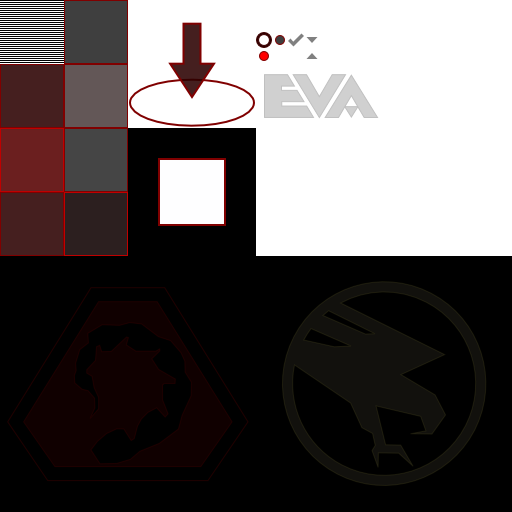
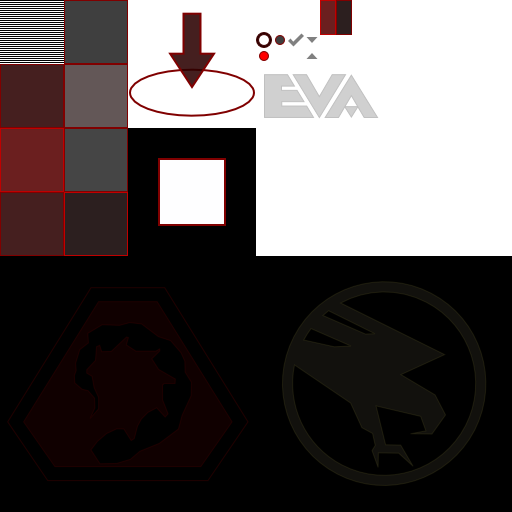
Loadscreen progress bar

Changed region(s): [[0.25, 0.0938, 0.5, 0.25], [0.625, 0.0, 0.6875, 0.0938], [0.3438, 0.0, 0.4062, 0.0625]]

diff --git a/OpenRA.Mods.Cnc/CncLoadScreen.cs b/OpenRA.Mods.Cnc/CncLoadScreen.cs
@@ -20,10 +20,12 @@ namespace OpenRA.Mods.Cnc
 	public class CncLoadScreen : ILoadScreen
 	{
 		Dictionary<string,string> Info;
-		Stopwatch lastLoadScreen = new Stopwatch();
+		Stopwatch loadTimer = new Stopwatch();
 		Sprite[] ss;
-		float2 nodPos, gdiPos, evaPos;
-		Sprite nodLogo, gdiLogo, evaLogo;
+		string text;
+		int loadTick;
+		float2 nodPos, gdiPos, evaPos, textPos;
+		Sprite nodLogo, gdiLogo, evaLogo, brightBlock, dimBlock;
 		Rectangle Bounds;
 		Renderer r;
 		NullInputHandler nih = new NullInputHandler();
@@ -55,27 +57,39 @@ namespace OpenRA.Mods.Cnc
 			nodPos = new float2(Renderer.Resolution.Width/3 - 256, Renderer.Resolution.Height/2 - 128);
 			gdiPos = new float2(Renderer.Resolution.Width*2/3, Renderer.Resolution.Height/2 - 128);
 			evaPos = new float2(Renderer.Resolution.Width-43-128, 43);
+			
+			brightBlock = new Sprite(s, new Rectangle(320,0,16,35), TextureChannel.Alpha);
+			dimBlock = new Sprite(s, new Rectangle(336,0,16,35), TextureChannel.Alpha);
 		}
 		
 		public void Display()
 		{
-			if (r == null)
+			if (r == null || loadTimer.ElapsedTime() < 0.25)
 				return;
+			loadTimer.Reset();
 			
-			// Update text at most every 0.5 seconds
-			if (lastLoadScreen.ElapsedTime() < 0.5)
-				return;
-			var font = r.Fonts["BigBold"];
-			var text = "Connecting to EVA...";
-			lastLoadScreen.Reset();
-			var textSize = font.Measure(text);
-			
+			loadTick = ++loadTick % 8;
 			r.BeginFrame(float2.Zero);
 			r.RgbaSpriteRenderer.DrawSprite(gdiLogo, gdiPos);
 			r.RgbaSpriteRenderer.DrawSprite(nodLogo, nodPos);
 			r.RgbaSpriteRenderer.DrawSprite(evaLogo, evaPos);
 			DrawBorder();
-			font.DrawText(text, new float2((Renderer.Resolution.Width - textSize.X) / 2, (Renderer.Resolution.Height - textSize.Y) / 2), Color.White);
+			
+			var barY = Renderer.Resolution.Height-78;
+			text = "Loading";
+			var textSize = r.Fonts["BigBold"].Measure(text);
+			textPos = new float2((Renderer.Resolution.Width - textSize.X) / 2, barY);
+			r.Fonts["BigBold"].DrawText(text, textPos, Color.DarkRed);
+
+			for (var i = 0; i <= 8; i++)
+			{
+				var block = loadTick == i ? brightBlock : dimBlock;
+				r.RgbaSpriteRenderer.DrawSprite(block,
+					new float2(Renderer.Resolution.Width/2 - 114 - i*32, barY));
+				r.RgbaSpriteRenderer.DrawSprite(block,
+					new float2(Renderer.Resolution.Width/2 + 114 + i*32-16, barY));
+			}
+			
 			r.EndFrame( nih );
 		}
 		
